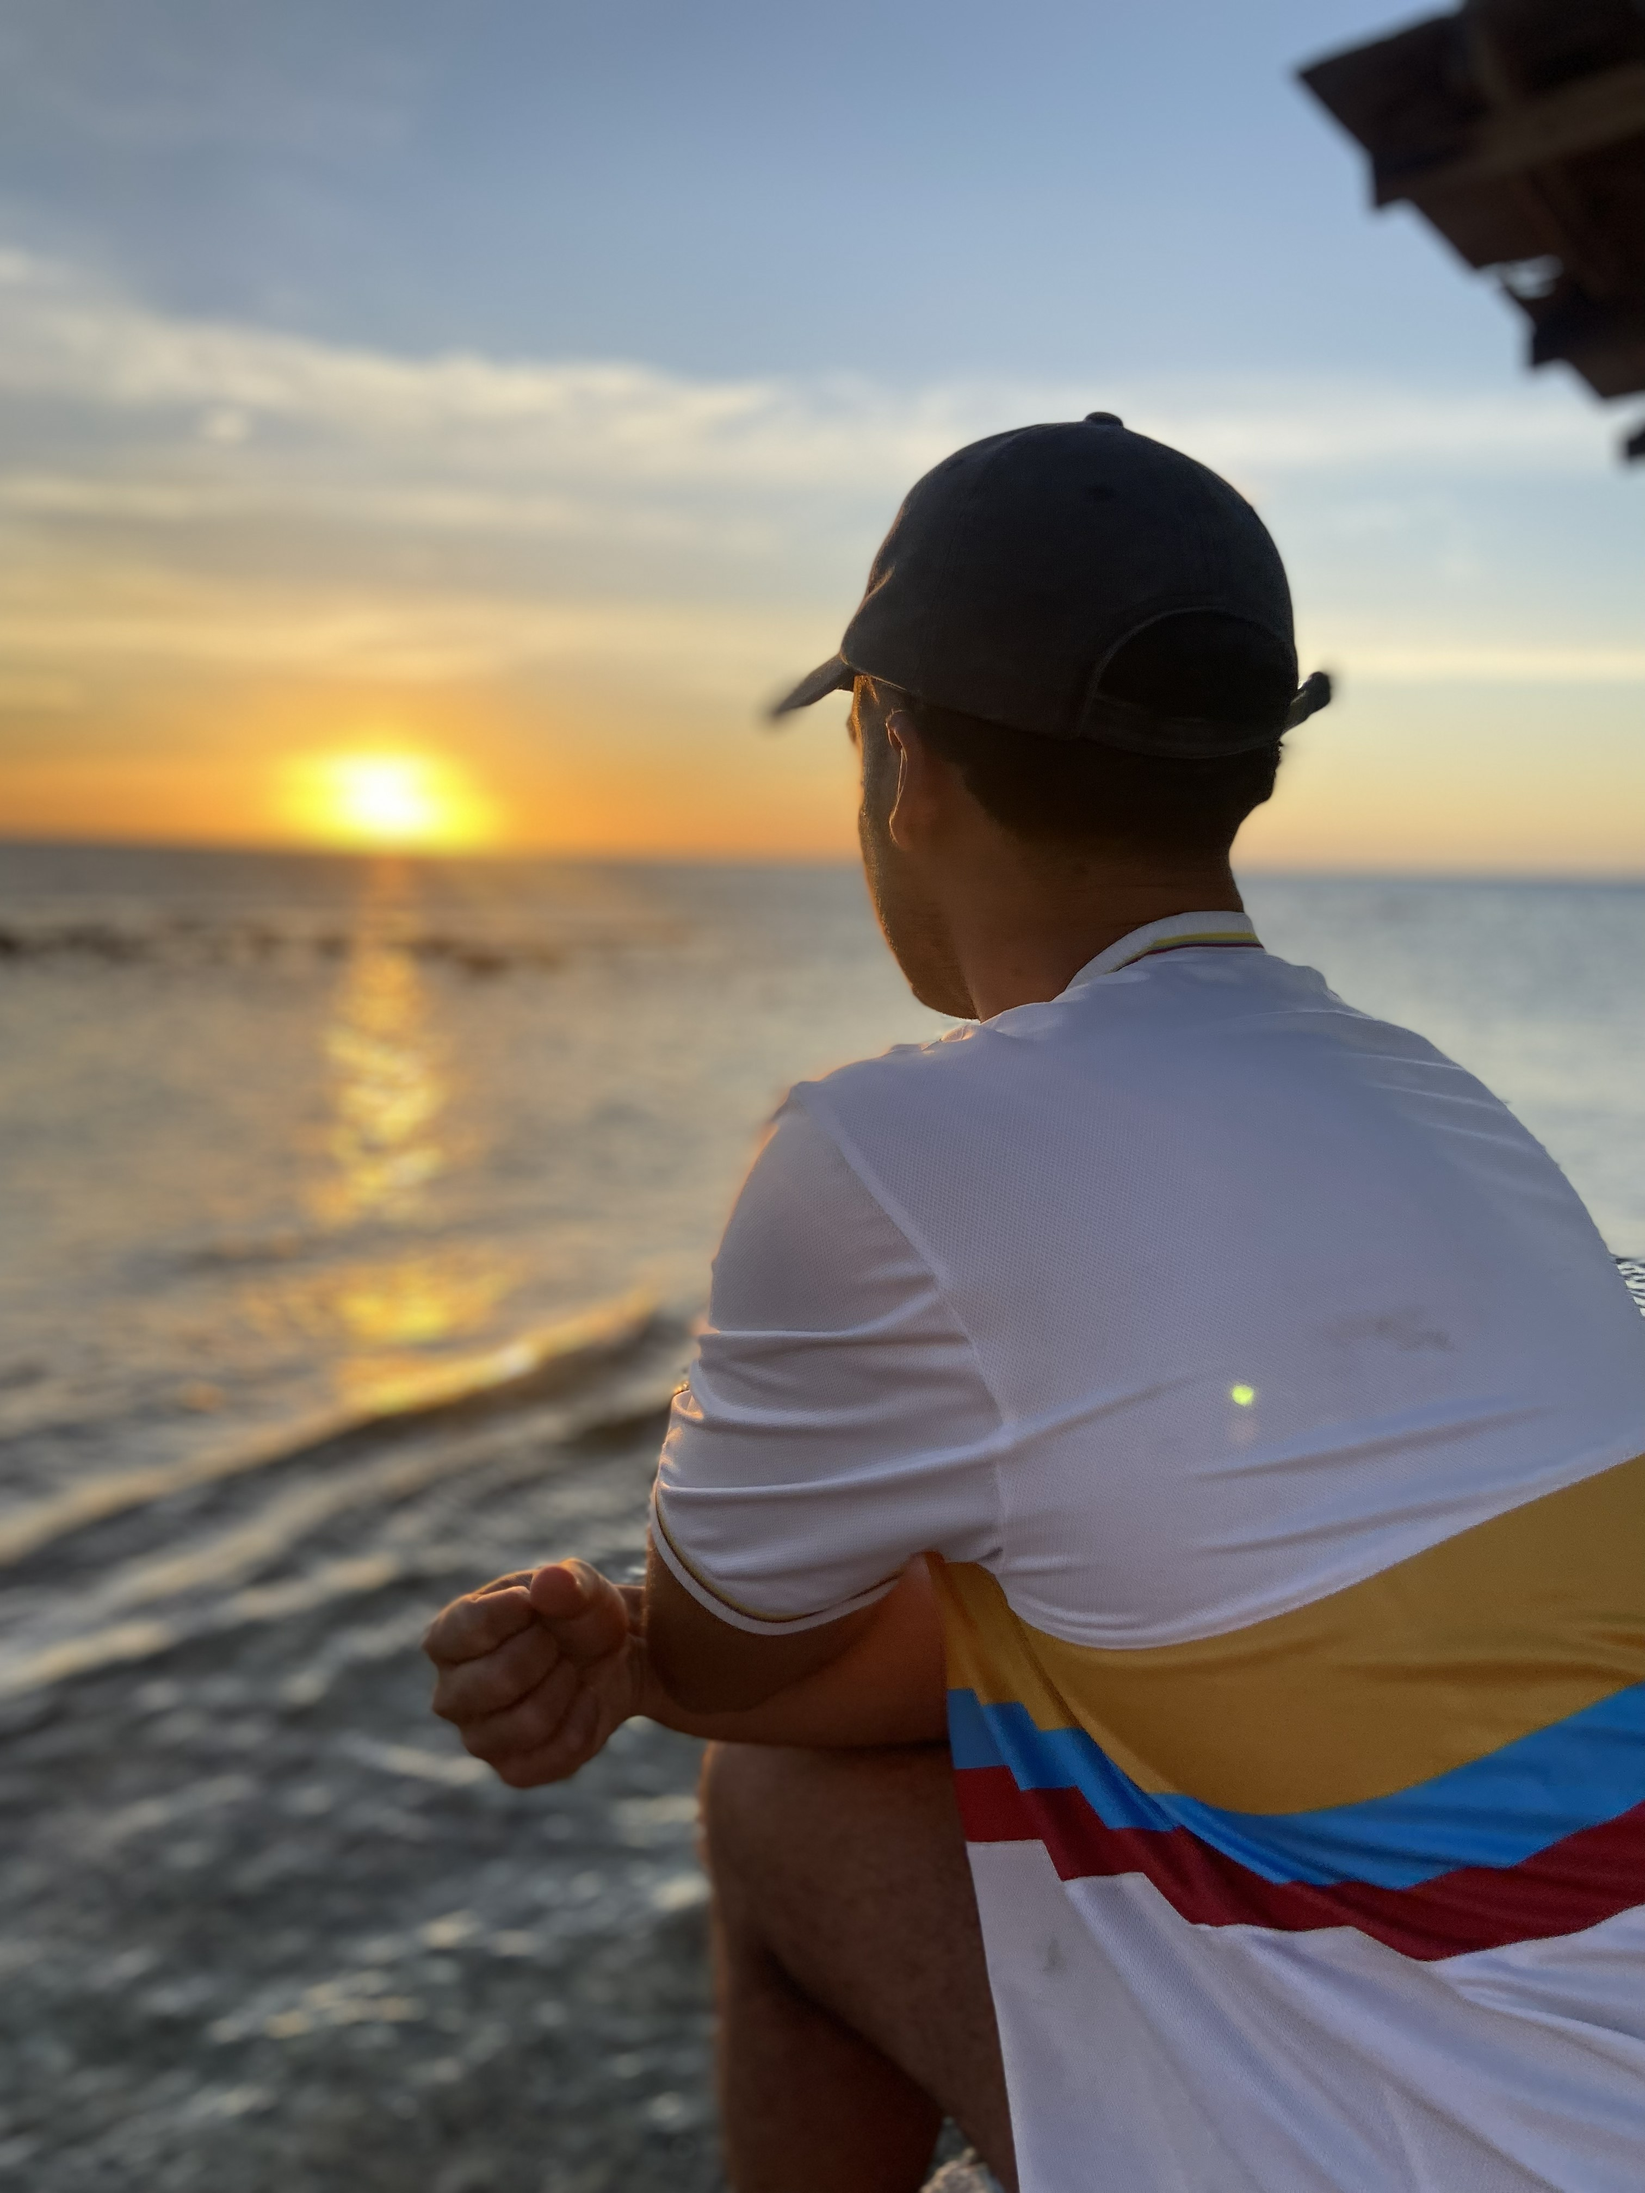
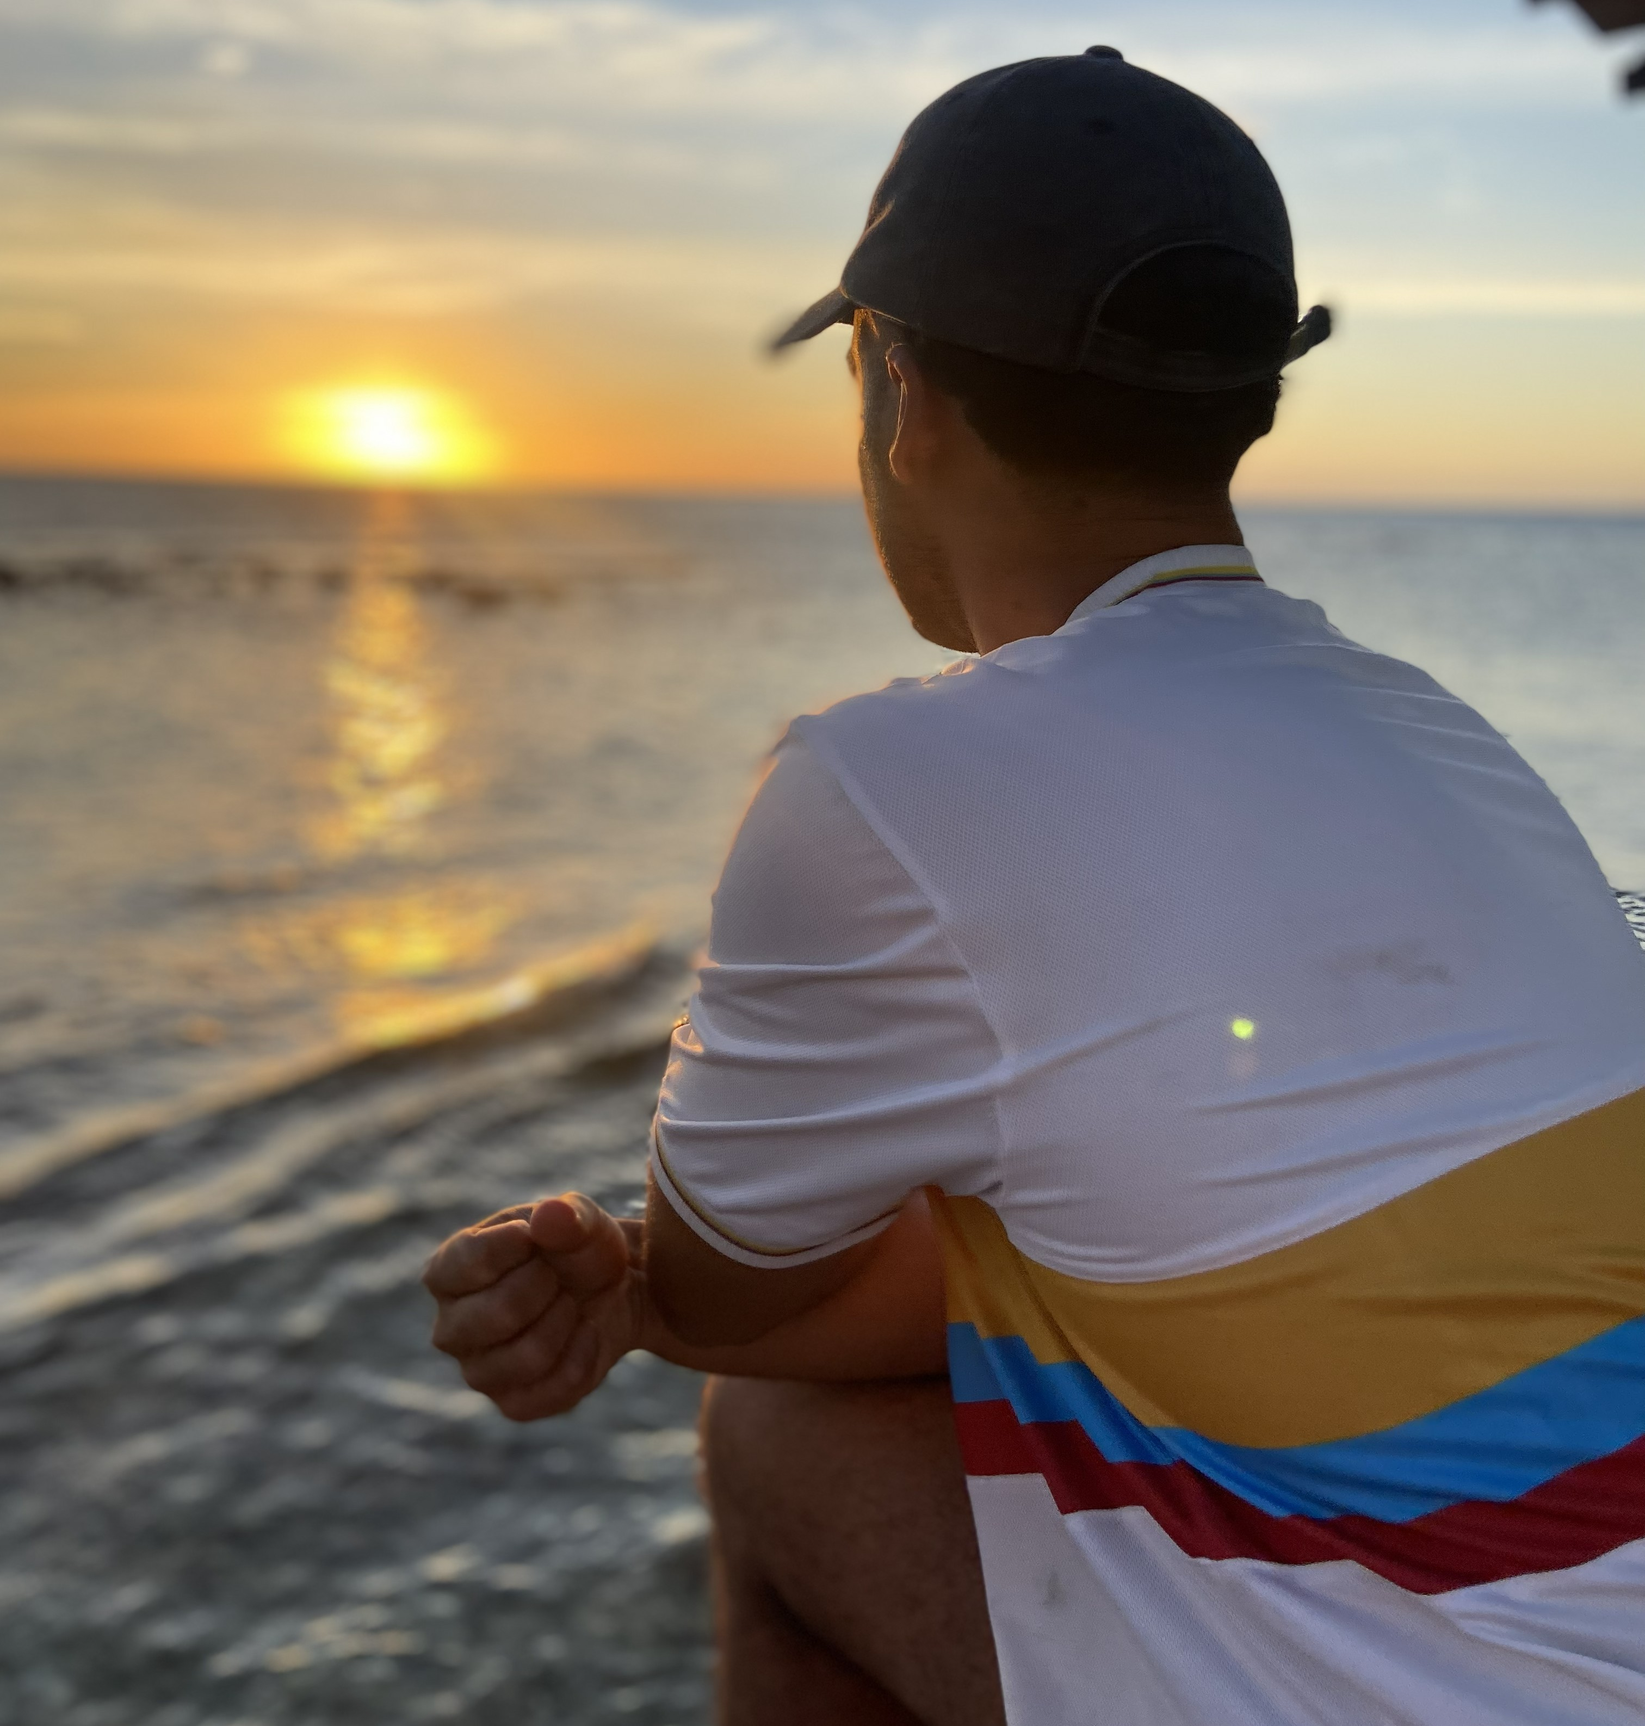
Image crop, and mobile phone version of publications page fixed

diff --git a/docs/about.html b/docs/about.html
@@ -147,39 +147,73 @@ ul.task-list li input[type="checkbox"] {
 <!-- main -->
 <main class="content page-columns page-full" id="quarto-document-content">
 <!-- Full-width banner — appears on every page, directly below navbar -->
+
 <div class="site-banner">
+
   <img src="images/banner.png" alt="" class="banner-img">
+
 </div>
 
+
+
 <!-- Left column — same on every page -->
+
 <aside class="profile-sidebar">
+
   <div class="profile-left">
+
     <div class="profile-photo-wrapper">
+
       <a href="index.html">
+
         <img src="images/profile_picture.jpg" alt="Dr. Jeshua Tromp" class="profile-photo">
+
       </a>
+
     </div>
+
     <h2 class="profile-name anchored">Dr. Jeshua Tromp</h2>
+
   </div>
+
   <div class="profile-right">
+
     <p class="profile-title-label">Postdoctoral Researcher</p>
+
     <p class="profile-affiliation">
+
       Donders Institute for Brain, Cognition and Behaviour<br>
+
       Radboudumc
+
     </p>
+
     <p class="profile-affiliation-short">Donders Institute, Radboudumc</p>
+
     <hr class="profile-divider">
+
     <div class="social-icons">
+
       <a href="https://scholar.google.com/citations?user=vJ3tg9UAAAAJ&amp;hl=nl&amp;oi=ao" target="_blank" title="Google Scholar"><i class="ai ai-google-scholar"></i></a>
+
       <a href="https://www.researchgate.net/scientific-contributions/Jeshua-Tromp-2222288309" target="_blank" title="ResearchGate"><i class="ai ai-researchgate"></i></a>
+
       <a href="https://orcid.org/0000-0001-9782-6076" target="_blank" title="ORCID"><i class="ai ai-orcid"></i></a>
+
       <a href="https://www.linkedin.com/in/jeshua-tromp-769552157/" target="_blank" title="LinkedIn"><i class="fab fa-linkedin-in"></i></a>
+
       <a href="https://hersenvoer.substack.com" target="_blank" title="Substack"><i class="fab fa-substack"></i></a>
+
       <a href="contact.html" title="Email"><i class="fas fa-envelope"></i></a>
+
       <a href="files/CV_Jeshua_2026.pdf" target="_blank" title="Curriculum Vitae" class="cv-badge">CV</a>
+
     </div>
+
   </div>
+
 </aside>
+
 
 <header id="title-block-header" class="quarto-title-block default">
 <div class="quarto-title">
@@ -213,8 +247,8 @@ ul.task-list li input[type="checkbox"] {
 </section>
 <section id="a-very-short-personal-history" class="level2">
 <h2 class="anchored" data-anchor-id="a-very-short-personal-history">A (very) short personal history</h2>
-<p>I was born on the One Happy Island: Aruba. As a child from a Colombian-Cuban mother and an Aruban father, my upbringing was a beautiful mess of Latin-American and Dutch influences. We moved to the Netherlands when I was four, after which I did my primary and secondary school in Nijmegen and my university studies in Utrecht. Now, I still live in Utrecht, where I play football, do climbing, read books and am always looking forward to holidays with lots of hiking and history.</p>
-<div class="page-photo">
+<p>I was born on the One Happy Island: Aruba. As a child from a Colombian-Cuban mother and an Aruban father, my upbringing was a beautiful mess of Latin-American and Dutch influences. We moved to the Netherlands when I was four, after which I did my primary and secondary school in Nijmegen and my university studies in Utrecht. Now, I still live in Utrecht, where I play football, do climbing, read books and am always looking forward to holidays with lots of hiking.</p>
+<div class="page-photo page-photo--about">
 <p><img src="images/aruba_colombia.jpg" alt="Aruba and Colombia"></p>
 </div>
 </section>

diff --git a/docs/files.html b/docs/files.html
@@ -153,39 +153,73 @@ ul.task-list li input[type="checkbox"] {
 <!-- main -->
 <main class="content page-columns page-full" id="quarto-document-content">
 <!-- Full-width banner — appears on every page, directly below navbar -->
+
 <div class="site-banner">
+
   <img src="images/banner.png" alt="" class="banner-img">
+
 </div>
 
+
+
 <!-- Left column — same on every page -->
+
 <aside class="profile-sidebar">
+
   <div class="profile-left">
+
     <div class="profile-photo-wrapper">
+
       <a href="index.html">
+
         <img src="images/profile_picture.jpg" alt="Dr. Jeshua Tromp" class="profile-photo">
+
       </a>
+
     </div>
+
     <h2 class="profile-name anchored">Dr. Jeshua Tromp</h2>
+
   </div>
+
   <div class="profile-right">
+
     <p class="profile-title-label">Postdoctoral Researcher</p>
+
     <p class="profile-affiliation">
+
       Donders Institute for Brain, Cognition and Behaviour<br>
+
       Radboudumc
+
     </p>
+
     <p class="profile-affiliation-short">Donders Institute, Radboudumc</p>
+
     <hr class="profile-divider">
+
     <div class="social-icons">
+
       <a href="https://scholar.google.com/citations?user=vJ3tg9UAAAAJ&amp;hl=nl&amp;oi=ao" target="_blank" title="Google Scholar"><i class="ai ai-google-scholar"></i></a>
+
       <a href="https://www.researchgate.net/scientific-contributions/Jeshua-Tromp-2222288309" target="_blank" title="ResearchGate"><i class="ai ai-researchgate"></i></a>
+
       <a href="https://orcid.org/0000-0001-9782-6076" target="_blank" title="ORCID"><i class="ai ai-orcid"></i></a>
+
       <a href="https://www.linkedin.com/in/jeshua-tromp-769552157/" target="_blank" title="LinkedIn"><i class="fab fa-linkedin-in"></i></a>
+
       <a href="https://hersenvoer.substack.com" target="_blank" title="Substack"><i class="fab fa-substack"></i></a>
+
       <a href="contact.html" title="Email"><i class="fas fa-envelope"></i></a>
+
       <a href="files/CV_Jeshua_2026.pdf" target="_blank" title="Curriculum Vitae" class="cv-badge">CV</a>
+
     </div>
+
   </div>
+
 </aside>
+
 
 <header id="title-block-header" class="quarto-title-block default">
 <div class="quarto-title">

diff --git a/docs/index.html b/docs/index.html
@@ -147,39 +147,73 @@ ul.task-list li input[type="checkbox"] {
 <!-- main -->
 <main class="content page-columns page-full" id="quarto-document-content">
 <!-- Full-width banner — appears on every page, directly below navbar -->
+
 <div class="site-banner">
+
   <img src="images/banner.png" alt="" class="banner-img">
+
 </div>
 
+
+
 <!-- Left column — same on every page -->
+
 <aside class="profile-sidebar">
+
   <div class="profile-left">
+
     <div class="profile-photo-wrapper">
+
       <a href="index.html">
+
         <img src="images/profile_picture.jpg" alt="Dr. Jeshua Tromp" class="profile-photo">
+
       </a>
+
     </div>
+
     <h2 class="profile-name anchored">Dr. Jeshua Tromp</h2>
+
   </div>
+
   <div class="profile-right">
+
     <p class="profile-title-label">Postdoctoral Researcher</p>
+
     <p class="profile-affiliation">
+
       Donders Institute for Brain, Cognition and Behaviour<br>
+
       Radboudumc
+
     </p>
+
     <p class="profile-affiliation-short">Donders Institute, Radboudumc</p>
+
     <hr class="profile-divider">
+
     <div class="social-icons">
+
       <a href="https://scholar.google.com/citations?user=vJ3tg9UAAAAJ&amp;hl=nl&amp;oi=ao" target="_blank" title="Google Scholar"><i class="ai ai-google-scholar"></i></a>
+
       <a href="https://www.researchgate.net/scientific-contributions/Jeshua-Tromp-2222288309" target="_blank" title="ResearchGate"><i class="ai ai-researchgate"></i></a>
+
       <a href="https://orcid.org/0000-0001-9782-6076" target="_blank" title="ORCID"><i class="ai ai-orcid"></i></a>
+
       <a href="https://www.linkedin.com/in/jeshua-tromp-769552157/" target="_blank" title="LinkedIn"><i class="fab fa-linkedin-in"></i></a>
+
       <a href="https://hersenvoer.substack.com" target="_blank" title="Substack"><i class="fab fa-substack"></i></a>
+
       <a href="contact.html" title="Email"><i class="fas fa-envelope"></i></a>
+
       <a href="files/CV_Jeshua_2026.pdf" target="_blank" title="Curriculum Vitae" class="cv-badge">CV</a>
+
     </div>
+
   </div>
+
 </aside>
+
 
 <header id="title-block-header" class="quarto-title-block default">
 <div class="quarto-title">

diff --git a/docs/projects.html b/docs/projects.html
@@ -152,39 +152,73 @@ ul.task-list li input[type="checkbox"] {
 <!-- main -->
 <main class="content page-columns page-full" id="quarto-document-content">
 <!-- Full-width banner — appears on every page, directly below navbar -->
+
 <div class="site-banner">
+
   <img src="images/banner.png" alt="" class="banner-img">
+
 </div>
 
+
+
 <!-- Left column — same on every page -->
+
 <aside class="profile-sidebar">
+
   <div class="profile-left">
+
     <div class="profile-photo-wrapper">
+
       <a href="index.html">
+
         <img src="images/profile_picture.jpg" alt="Dr. Jeshua Tromp" class="profile-photo">
+
       </a>
+
     </div>
+
     <h2 class="profile-name anchored">Dr. Jeshua Tromp</h2>
+
   </div>
+
   <div class="profile-right">
+
     <p class="profile-title-label">Postdoctoral Researcher</p>
+
     <p class="profile-affiliation">
+
       Donders Institute for Brain, Cognition and Behaviour<br>
+
       Radboudumc
+
     </p>
+
     <p class="profile-affiliation-short">Donders Institute, Radboudumc</p>
+
     <hr class="profile-divider">
+
     <div class="social-icons">
+
       <a href="https://scholar.google.com/citations?user=vJ3tg9UAAAAJ&amp;hl=nl&amp;oi=ao" target="_blank" title="Google Scholar"><i class="ai ai-google-scholar"></i></a>
+
       <a href="https://www.researchgate.net/scientific-contributions/Jeshua-Tromp-2222288309" target="_blank" title="ResearchGate"><i class="ai ai-researchgate"></i></a>
+
       <a href="https://orcid.org/0000-0001-9782-6076" target="_blank" title="ORCID"><i class="ai ai-orcid"></i></a>
+
       <a href="https://www.linkedin.com/in/jeshua-tromp-769552157/" target="_blank" title="LinkedIn"><i class="fab fa-linkedin-in"></i></a>
+
       <a href="https://hersenvoer.substack.com" target="_blank" title="Substack"><i class="fab fa-substack"></i></a>
+
       <a href="contact.html" title="Email"><i class="fas fa-envelope"></i></a>
+
       <a href="files/CV_Jeshua_2026.pdf" target="_blank" title="Curriculum Vitae" class="cv-badge">CV</a>
+
     </div>
+
   </div>
+
 </aside>
+
 
 <header id="title-block-header" class="quarto-title-block default">
 <div class="quarto-title">

diff --git a/docs/styles.css b/docs/styles.css
@@ -216,7 +216,13 @@ body:has(.home-content) .quarto-title-block {
 .page-photo img {
   display: block;
   width: 100%;
-  height: auto;
+  max-height: 480px;
+  object-fit: cover;
+  object-position: center;
+}
+
+.page-photo--about img {
+  max-height: 640px;
 }
 
 /* Profile photo link — no underline or color shift */
@@ -230,12 +236,12 @@ body:has(.home-content) .quarto-title-block {
   display: inline-flex;
   align-items: center;
   justify-content: center;
-  font-size: 0.6rem;
+  font-size: 0.5rem;
   font-weight: 700;
   color: #555555 !important;
-  border: 1.5px solid currentColor;
+  border: 1px solid currentColor;
   border-radius: 3px;
-  padding: 0.1rem 0.3rem;
+  padding: 0.08rem 0.25rem;
   text-decoration: none !important;
   line-height: 1;
   transition: color 0.2s;
@@ -249,6 +255,7 @@ body:has(.home-content) .quarto-title-block {
 .csl-entry {
   padding: 1.25rem 0;
   border-bottom: 1px solid #e0e0e0;
+  overflow-wrap: break-word;
 }
 .csl-entry:first-child {
   border-top: 1px solid #e0e0e0;

diff --git a/styles.css b/styles.css
@@ -216,7 +216,13 @@ body:has(.home-content) .quarto-title-block {
 .page-photo img {
   display: block;
   width: 100%;
-  height: auto;
+  max-height: 480px;
+  object-fit: cover;
+  object-position: center;
+}
+
+.page-photo--about img {
+  max-height: 640px;
 }
 
 /* Profile photo link — no underline or color shift */
@@ -230,12 +236,12 @@ body:has(.home-content) .quarto-title-block {
   display: inline-flex;
   align-items: center;
   justify-content: center;
-  font-size: 0.6rem;
+  font-size: 0.5rem;
   font-weight: 700;
   color: #555555 !important;
-  border: 1.5px solid currentColor;
+  border: 1px solid currentColor;
   border-radius: 3px;
-  padding: 0.1rem 0.3rem;
+  padding: 0.08rem 0.25rem;
   text-decoration: none !important;
   line-height: 1;
   transition: color 0.2s;
@@ -249,6 +255,7 @@ body:has(.home-content) .quarto-title-block {
 .csl-entry {
   padding: 1.25rem 0;
   border-bottom: 1px solid #e0e0e0;
+  overflow-wrap: break-word;
 }
 .csl-entry:first-child {
   border-top: 1px solid #e0e0e0;
